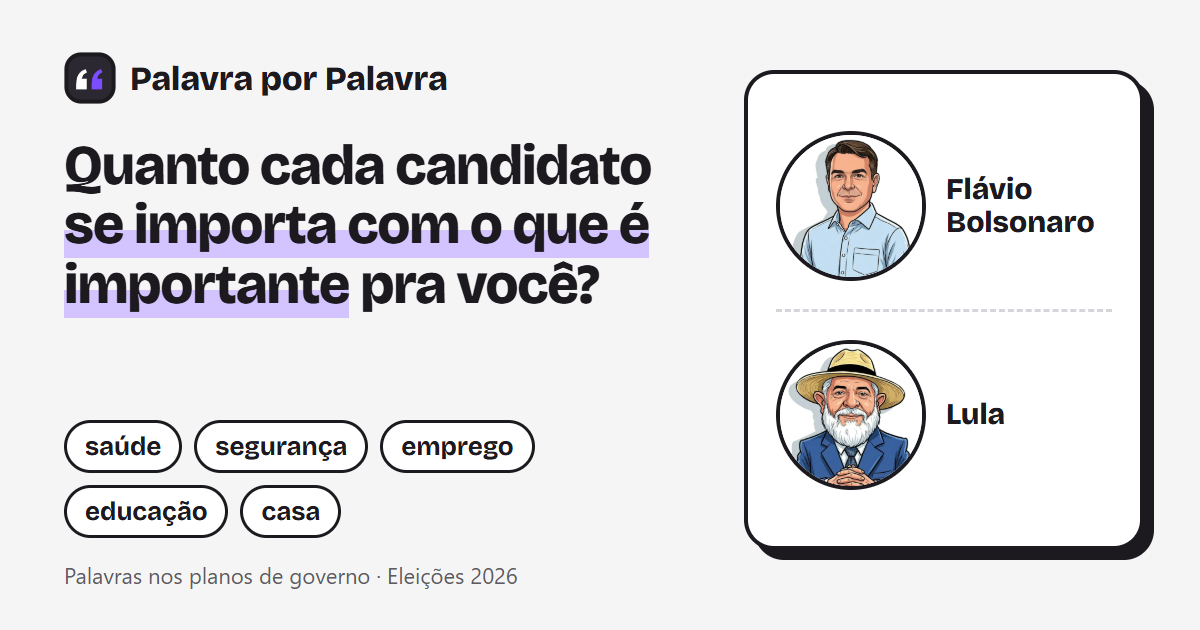
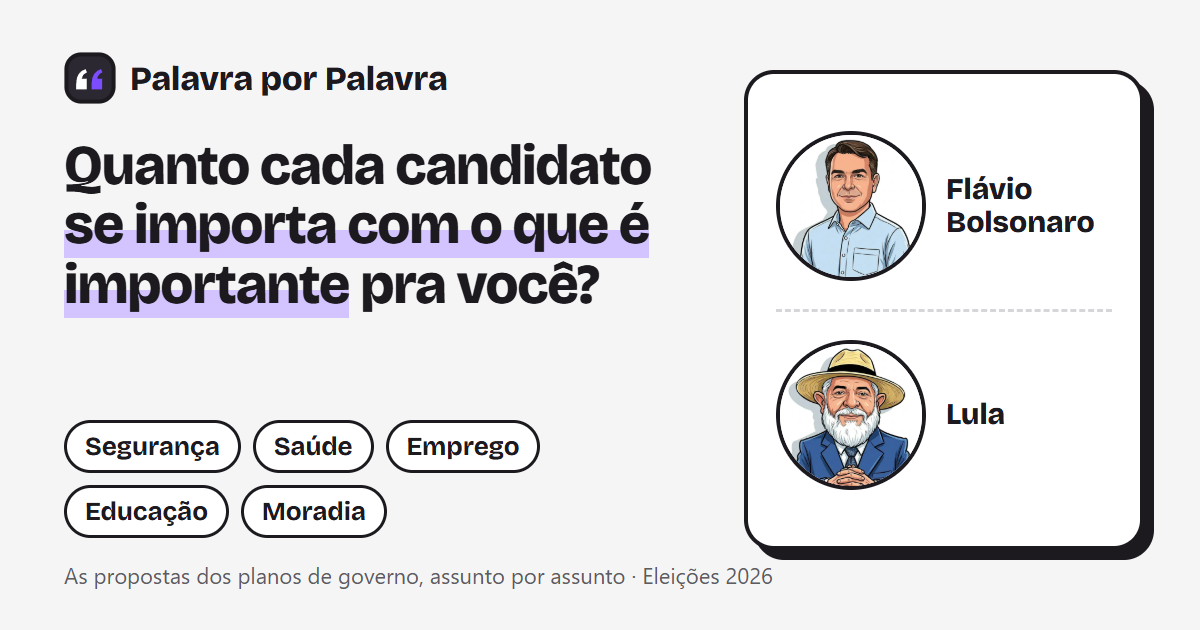
Card de compartilhar das propostas do assunto e prévia do link atualizada
- Página do assunto ganha botão Compartilhar: story com quantas propostas cada plano faz e
  quanto diz como vai fazer, com o mesmo peso, nota de IA e lembrete, dentro da faixa segura.
- Card de palavra continua igual (cabeçalho e lembrete agora compartilhados).
- Prévia do link fala das propostas por assunto.

Changed region(s): [[0.0617, 0.6635, 0.4625, 0.8746], [0.0308, 0.9048, 0.6475, 0.9349]]

diff --git a/js/compartilhar.js b/js/compartilhar.js
@@ -1,9 +1,10 @@
-import { SITE } from './config.js?v=5.3';
-import { vezes, frequencia, maiorTaxa, LEMBRETE, PERGUNTA } from './formato.js?v=5.3';
+import { SITE } from './config.js?v=5.4';
+import { vezes, frequencia, maiorTaxa, LEMBRETE, PERGUNTA } from './formato.js?v=5.4';
 
-// Imagem de story (9:16) com a cara da tela de resultado: um cartão com uma coluna por candidato
-// (retrato, nome, número, barra e frequência no plano), na mesma ordem da tela.
-// Leva sempre os dois, o número, a frequência e o lembrete: a imagem não pode virar "placar".
+// Imagem de story (9:16) com a cara da tela de resultado: um cartão com uma coluna por candidato,
+// na mesma ordem da tela. Dois tipos: a contagem de uma palavra (número, barra e frequência) e as
+// propostas de um assunto (quantas e quantas dizem como vão fazer, com o mesmo peso).
+// Leva sempre os dois e o lembrete: a imagem não pode virar disputa.
 const L = 1080;
 const A = 1920;
 // Faixa segura: o WhatsApp mostra na conversa só o meio da imagem (altura ≈ 1,4 × largura) e o story
@@ -149,8 +150,65 @@ function nomeAoLado(ctx, nome, x, yMeio, largura) {
   textoAjustado(ctx, resto.join(' '), x, yMeio + 44, 800, 46, largura);
 }
 
-// palavra: o termo (ou o assunto, sem aspas). lados: [{ nome, imagem, plano }] na ordem da tela.
-export async function gerarImagem({ palavra, aspas = true, lados }) {
+// Uma medida da coluna de propostas: rótulo, número grande, barra e detalhe.
+function medida(ctx, x, y, w, rotulo, valor, fracao, detalhe) {
+  ctx.textAlign = 'left';
+  ctx.fillStyle = COR.suave;
+  ctx.font = texto(700, 30);
+  ctx.fillText(rotulo, x, y);
+  ctx.fillStyle = COR.tinta;
+  ctx.font = fonte(800, 80);
+  ctx.fillText(valor, x, y + 86);
+  barra(ctx, x, y + 110, w, 50, fracao, false);
+  if (detalhe) {
+    ctx.fillStyle = COR.suave;
+    ctx.font = texto(400, 31);
+    ctx.fillText(detalhe, x, y + 202);
+  }
+}
+
+// Selo, pergunta e título com marca-texto. Devolve o topo do cartão.
+function cabecalho(ctx, y0, pergunta, titulo) {
+  ctx.textAlign = 'center';
+  ctx.font = fonte(800, 32);
+  const selo = 'PALAVRA POR PALAVRA · ELEIÇÕES 2026';
+  const larguraSelo = ctx.measureText(selo).width + 68;
+  bloco(ctx, (L - larguraSelo) / 2, y0, larguraSelo, 70, 35, COR.roxo);
+  ctx.fillStyle = '#ffffff';
+  ctx.fillText(selo, L / 2, y0 + 47);
+
+  ctx.fillStyle = COR.tinta;
+  textoAjustado(ctx, pergunta, L / 2, y0 + 160, 700, 48, L - 100);
+  let t = 112;
+  ctx.font = fonte(800, t);
+  while (ctx.measureText(titulo).width > L - 120 && t > 40) { t -= 4; ctx.font = fonte(800, t); }
+  const largura = ctx.measureText(titulo).width;
+  const yTitulo = y0 + 282;
+  ctx.fillStyle = COR.marcaTexto;
+  ctx.fillRect((L - largura) / 2 - 12, yTitulo - t * 0.42, largura + 24, t * 0.42);
+  ctx.fillStyle = COR.tinta;
+  ctx.fillText(titulo, L / 2, yTitulo);
+  return y0 + 340;
+}
+
+// Lembrete (o mesmo da tela) e chamada com o endereço, a partir de y.
+function rodape(ctx, y, chamada) {
+  ctx.font = texto(400, 30);
+  const linhas = quebrar(ctx, LEMBRETE[0].toUpperCase() + LEMBRETE.slice(1), L - 176);
+  const altura = 44 + linhas.length * 44;
+  bloco(ctx, 40, y, L - 80, altura, 26, COR.roxoClaro);
+  ctx.fillStyle = COR.roxo;
+  ctx.fillRect(40 + TRACO / 2, y + TRACO / 2, 12, altura - TRACO);
+  ctx.fillStyle = COR.tinta;
+  ctx.textAlign = 'left';
+  ctx.font = texto(400, 30);
+  linhas.forEach((linha, i) => ctx.fillText(linha, 88, y + 54 + i * 44));
+  return y + altura;
+}
+
+// tipo 'palavra': palavra é o termo (ou o assunto, sem aspas); lados: [{ nome, imagem, plano }].
+// tipo 'propostas': palavra é o assunto; lados: [{ nome, imagem, n, como }]. Sempre na ordem da tela.
+export async function gerarImagem({ tipo = 'palavra', palavra, aspas = true, lados }) {
   const [imagens] = await Promise.all([
     Promise.all(lados.map((l) => carregar(l.imagem))),
     document.fonts?.load(fonte(800, 100)).catch(() => {}),
@@ -163,32 +221,11 @@ export async function gerarImagem({ palavra, aspas = true, lados }) {
   ctx.fillRect(0, 0, L, A);
   ctx.textBaseline = 'alphabetic';
   const y0 = SEGURO.topo + 78;
+  if (tipo === 'propostas') return propostas(ctx, canvas, y0, palavra, lados, imagens);
 
-  // Selo
-  ctx.textAlign = 'center';
-  ctx.font = fonte(800, 32);
-  const selo = 'PALAVRA POR PALAVRA · ELEIÇÕES 2026';
-  const larguraSelo = ctx.measureText(selo).width + 68;
-  bloco(ctx, (L - larguraSelo) / 2, y0, larguraSelo, 70, 35, COR.roxo);
-  ctx.fillStyle = '#ffffff';
-  ctx.fillText(selo, L / 2, y0 + 47);
-
-  // Pergunta e palavra, com marca-texto
-  ctx.fillStyle = COR.tinta;
-  textoAjustado(ctx, aspas ? PERGUNTA.palavra : PERGUNTA.assunto, L / 2, y0 + 160, 700, 48, L - 100);
-  const titulo = aspas ? `“${palavra}”` : palavra;
-  let t = 112;
-  ctx.font = fonte(800, t);
-  while (ctx.measureText(titulo).width > L - 120 && t > 40) { t -= 4; ctx.font = fonte(800, t); }
-  const largura = ctx.measureText(titulo).width;
-  const yPalavra = y0 + 282;
-  ctx.fillStyle = COR.marcaTexto;
-  ctx.fillRect((L - largura) / 2 - 12, yPalavra - t * 0.42, largura + 24, t * 0.42);
-  ctx.fillStyle = COR.tinta;
-  ctx.fillText(titulo, L / 2, yPalavra);
+  const topo = cabecalho(ctx, y0, aspas ? PERGUNTA.palavra : PERGUNTA.assunto, aspas ? `“${palavra}”` : palavra);
 
   // Cartão com as duas colunas
-  const topo = y0 + 340;
   bloco(ctx, 40, topo, L - 80, 712, 44, COR.papel, 12);
   const maior = maiorTaxa(lados.map((l) => l.plano));
   const largCol = 420;
@@ -201,27 +238,43 @@ export async function gerarImagem({ palavra, aspas = true, lados }) {
     conta(ctx, x, topo + 425, largCol, 'NO PLANO DE GOVERNO', lado.plano, maior, false);
   });
 
-  // Lembrete, o mesmo da tela
-  ctx.font = texto(400, 30);
-  const linhas = quebrar(ctx, LEMBRETE[0].toUpperCase() + LEMBRETE.slice(1), L - 176);
-  const topoLembrete = topo + 742;
-  const alturaLembrete = 44 + linhas.length * 44;
-  bloco(ctx, 40, topoLembrete, L - 80, alturaLembrete, 26, COR.roxoClaro);
-  ctx.fillStyle = COR.roxo;
-  ctx.fillRect(40 + TRACO / 2, topoLembrete + TRACO / 2, 12, alturaLembrete - TRACO);
-  ctx.fillStyle = COR.tinta;
-  ctx.textAlign = 'left';
-  ctx.font = texto(400, 30);
-  linhas.forEach((linha, i) => ctx.fillText(linha, 88, topoLembrete + 54 + i * 44));
-
-  // Chamada com o endereço
+  // Lembrete e chamada com o endereço
+  const fim = rodape(ctx, topo + 742);
   ctx.textAlign = 'center';
   ctx.fillStyle = COR.tinta;
-  const chamadaY = topoLembrete + alturaLembrete + 80;
   ctx.font = fonte(800, 46);
-  ctx.fillText(aspas ? 'Busque a sua palavra em' : 'Veja o seu assunto em', L / 2, chamadaY);
-  textoAjustado(ctx, SITE, L / 2, chamadaY + 58, 700, 42, L - 120);
+  ctx.fillText(aspas ? 'Busque a sua palavra em' : 'Veja o seu assunto em', L / 2, fim + 80);
+  textoAjustado(ctx, SITE, L / 2, fim + 138, 700, 42, L - 120);
 
+  return new Promise((ok) => canvas.toBlob(ok, 'image/png'));
+}
+
+// Propostas de um assunto: quantas e quantas dizem como vão fazer, com o mesmo desenho e tamanho.
+function propostas(ctx, canvas, y0, assunto, lados, imagens) {
+  const topo = cabecalho(ctx, y0, 'O que cada plano propõe sobre', assunto);
+  bloco(ctx, 40, topo, L - 80, 830, 44, COR.papel, 12);
+  const maior = Math.max(...lados.map((l) => l.n)) || 1;
+  const largCol = 420;
+  lados.forEach((lado, i) => {
+    const x = i === 0 ? 88 : 572;
+    retrato(ctx, imagens[i], x + 80, topo + 112, 80);
+    ctx.textAlign = 'left';
+    ctx.fillStyle = COR.tinta;
+    textoAjustado(ctx, lado.nome, x, topo + 258, 800, 46, largCol);
+    medida(ctx, x, topo + 325, largCol, 'PROPOSTAS', String(lado.n), lado.n / maior);
+    const pct = lado.n ? Math.round((100 * lado.como) / lado.n) : 0;
+    medida(ctx, x, topo + 522, largCol, 'DIZ COMO VAI FAZER', `${pct}%`, lado.n ? lado.como / lado.n : 0, `${lado.como} de ${lado.n}`);
+  });
+  ctx.textAlign = 'center';
+  ctx.fillStyle = COR.suave;
+  ctx.font = texto(400, 28);
+  ctx.fillText('✦ Propostas separadas e classificadas por IA a partir dos planos', L / 2, topo + 792);
+
+  // Lembrete e chamada numa linha só, para caber na faixa segura.
+  const fim = rodape(ctx, topo + 860);
+  ctx.fillStyle = COR.tinta;
+  ctx.textAlign = 'center';
+  textoAjustado(ctx, `Veja em ${SITE}`, L / 2, fim + 76, 800, 46, L - 120);
   return new Promise((ok) => canvas.toBlob(ok, 'image/png'));
 }
 
@@ -230,7 +283,9 @@ export async function compartilhar(dados) {
   const blob = await gerarImagem(dados);
   const arquivo = new File([blob], 'palavra-por-palavra.png', { type: 'image/png' });
   const url = `https://${SITE}/${dados.link}&o=c`;
-  const mensagem = dados.aspas
+  const mensagem = dados.tipo === 'propostas'
+    ? `O que cada plano de governo propõe sobre ${dados.palavra.toLowerCase()}? Quantas propostas e quantas dizem como vão ser feitas: ${url}`
+    : dados.aspas
     ? `Quantas vezes cada candidato usou “${dados.palavra}” no plano de governo? Busque a sua palavra: ${url}`
     : `Quanto cada candidato falou sobre ${dados.palavra.toLowerCase()} no plano de governo? Veja: ${url}`;
 

diff --git a/js/app.js b/js/app.js
@@ -1,7 +1,7 @@
-import { preparar, familia, familiaDoGrupo, formasDoTermo, contar, trecho, semAcento } from './busca.js?v=5.3';
-import * as medir from './contagem.js?v=5.3';
-import { compartilhar } from './compartilhar.js?v=5.3';
-import { numero, vezes, frequencia, maiorTaxa, LEMBRETE, PERGUNTA } from './formato.js?v=5.3';
+import { preparar, familia, familiaDoGrupo, formasDoTermo, contar, trecho, semAcento } from './busca.js?v=5.4';
+import * as medir from './contagem.js?v=5.4';
+import { compartilhar } from './compartilhar.js?v=5.4';
+import { numero, vezes, frequencia, maiorTaxa, LEMBRETE, PERGUNTA } from './formato.js?v=5.4';
 
 const ORDEM = 'palavra:ordem';
 const POR_VEZ = 5; // trechos mostrados de cada vez
@@ -247,6 +247,7 @@ function propostasDoAssunto(grupo) {
       medida('Propostas', numero(x.n), x.n / maior),
       medida('Diz como vai fazer', `${pct(x.como, x.n)}%`, x.n ? x.como / x.n : 0, `${x.como} de ${x.n}`),
       el('small', { class: 'outras-marcas' }, `Com meta em número: ${x.meta}. Com prazo: ${x.prazo}. Com valor em R$: ${x.valor}.`)))),
+    el('button', { class: 'botao principal compartilhar', type: 'button', onclick: (e) => enviarPropostas(e.currentTarget, grupo, porCandidato) }, 'Compartilhar'),
     el('p', { class: 'legenda' }, el('strong', {}, 'Diz como vai fazer'), ' quando a proposta nomeia a lei, o programa, de onde sai o dinheiro ou com quem vai ser feita (estados, municípios, um órgão).',
       porCandidato.some((x) => x.n < 8) ? ' Com poucas propostas, uma a mais ou a menos muda bastante o percentual.' : ''),
     porCandidato.map((x) => listaDePropostas(x, grupo)));
@@ -379,11 +380,11 @@ function blocoResumo(grupo) {
   const painel = el('div', { class: 'painel', id: 'resumo-ia', hidden: true });
   let aberto = null;
   const colunas = ordem.map((c) => {
-    const foto = el('img', { src: `img/${c}-serio.webp?v=5.3`, alt: '', width: '96', height: '96' });
+    const foto = el('img', { src: `img/${c}-serio.webp?v=5.4`, alt: '', width: '96', height: '96' });
     const rotulo = el('span', { class: 'ver-resumo' }, 'Ver resumo');
     // Retrato e rótulo formam um único botão.
     const cabeca = el('button', { class: 'rosto', type: 'button', 'aria-pressed': 'false', 'aria-controls': painel.id, 'aria-label': `Ver resumo do plano de ${nome(c)}`, onclick: () => abrirResumo(c) }, foto, rotulo);
-    new Image().src = `img/${c}-alegre.webp?v=5.3`; // sem piscar na troca
+    new Image().src = `img/${c}-alegre.webp?v=5.4`; // sem piscar na troca
     return { c, cabeca, foto, rotulo };
   });
   function abrirResumo(c) {
@@ -391,7 +392,7 @@ function blocoResumo(grupo) {
     for (const col of colunas) {
       const ativo = col.c === aberto;
       col.cabeca.setAttribute('aria-pressed', String(ativo));
-      col.foto.src = `img/${col.c}-${ativo ? 'alegre' : 'serio'}.webp?v=5.3`;
+      col.foto.src = `img/${col.c}-${ativo ? 'alegre' : 'serio'}.webp?v=5.4`;
       col.rotulo.textContent = ativo ? 'Fechar' : 'Ver resumo';
     }
     painel.hidden = !aberto;
@@ -525,6 +526,21 @@ function itemDeTrecho(c, { pedaco, i, n }) {
   return el('li', {}, el('p', {}, t.antes, el('mark', {}, t.achado), t.depois), fonte);
 }
 
+async function enviarPropostas(botao, grupo, porCandidato) {
+  botao.disabled = true;
+  try {
+    const tipo = await compartilhar({
+      tipo: 'propostas',
+      palavra: grupo.nome,
+      link: `?a=${grupo.id}`,
+      lados: porCandidato.map((x) => ({ nome: nome(x.c), imagem: `img/${x.c}-neutro.webp?v=5.4`, n: x.n, como: x.como })),
+    });
+    if (tipo) medir.compartilhou(tipo);
+  } finally {
+    botao.disabled = false;
+  }
+}
+
 async function enviarImagem(botao, vista) {
   botao.disabled = true;
   try {
@@ -534,7 +550,7 @@ async function enviarImagem(botao, vista) {
       link: vista.link,
       lados: ordem.map((c) => ({
         nome: nome(c),
-        imagem: `img/${c}-neutro.webp?v=5.3`,
+        imagem: `img/${c}-neutro.webp?v=5.4`,
         plano: vista.res.plano[c],
       })),
     });
@@ -566,7 +582,7 @@ function rota({ historico = false } = {}) {
 async function iniciar() {
   try {
     const [textos, termos, resumos, propostas] = await Promise.all(
-      ['data/textos.json?v=5.3', 'data/termos.json?v=5.3', 'data/resumos.json?v=5.3', 'data/propostas.json?v=5.3'].map((u) => fetch(u).then((r) => { if (!r.ok) throw new Error(u); return r.json(); })),
+      ['data/textos.json?v=5.4', 'data/termos.json?v=5.4', 'data/resumos.json?v=5.4', 'data/propostas.json?v=5.4'].map((u) => fetch(u).then((r) => { if (!r.ok) throw new Error(u); return r.json(); })),
     );
     dados = { textos, termos: termos.termos, grupos: termos.grupos, resumos, propostas: propostas.propostas, acervos: preparar(textos) };
     dados.indice = montarIndice();

diff --git a/sobre.html b/sobre.html
@@ -8,7 +8,7 @@
   <meta property="og:type" content="website">
   <meta property="og:title" content="Como funciona · Palavra por Palavra">
   <meta property="og:description" content="Como contamos propostas e palavras nos planos de governo, de onde vêm os textos e o que o site guarda.">
-  <meta property="og:image" content="https://palavraporpalavra.online/img/og.png?v=5.3">
+  <meta property="og:image" content="https://palavraporpalavra.online/img/og.png?v=5.4">
   <meta property="og:image:width" content="1200">
   <meta property="og:image:height" content="630">
   <meta property="og:url" content="https://palavraporpalavra.online/sobre.html">
@@ -23,14 +23,14 @@
       document.documentElement.dataset.theme = tema;
     })();
   </script>
-  <link rel="icon" href="img/icone.svg?v=5.3" type="image/svg+xml">
+  <link rel="icon" href="img/icone.svg?v=5.4" type="image/svg+xml">
   <link rel="preload" href="fonts/bricolage-grotesque.woff2" as="font" type="font/woff2" crossorigin>
-  <link rel="stylesheet" href="css/style.css?v=5.3">
+  <link rel="stylesheet" href="css/style.css?v=5.4">
 </head>
 <body>
   <header class="topo">
     <a class="marca" href="./">
-      <img src="img/icone.svg?v=5.3" width="30" height="30" alt="">
+      <img src="img/icone.svg?v=5.4" width="30" height="30" alt="">
       Palavra por Palavra
     </a>
     <button class="tema" type="button" aria-label="Mudar para o tema escuro">
@@ -113,6 +113,6 @@
     <p>Projeto independente de Thiago Areias, o mesmo do <a href="https://testecego.online/?o=pp">Teste Cego</a>, sem vínculo com candidatos, partidos ou campanhas, sem financiamento e sem impulsionamento pago. O código e os dados são abertos no <a href="https://github.com/areiasthiago/palavra-por-palavra">GitHub</a>; correções são bem-vindas por lá.</p>
   </main>
   <footer class="rodape"><a href="./">Voltar para a busca</a></footer>
-  <script type="module" src="js/tema.js?v=5.3"></script>
+  <script type="module" src="js/tema.js?v=5.4"></script>
 </body>
 </html>

diff --git a/index.html b/index.html
@@ -8,7 +8,7 @@
   <meta property="og:type" content="website">
   <meta property="og:title" content="Palavra por Palavra: quanto cada candidato se importa com o que é importante pra você?">
   <meta property="og:description" content="Assunto por assunto, quantas propostas cada plano de governo faz e quantas dizem como vão ser feitas.">
-  <meta property="og:image" content="https://palavraporpalavra.online/img/og.png?v=5.3">
+  <meta property="og:image" content="https://palavraporpalavra.online/img/og.png?v=5.4">
   <meta property="og:image:width" content="1200">
   <meta property="og:image:height" content="630">
   <meta property="og:url" content="https://palavraporpalavra.online/">
@@ -23,14 +23,14 @@
       document.documentElement.dataset.theme = tema;
     })();
   </script>
-  <link rel="icon" href="img/icone.svg?v=5.3" type="image/svg+xml">
+  <link rel="icon" href="img/icone.svg?v=5.4" type="image/svg+xml">
   <link rel="preload" href="fonts/bricolage-grotesque.woff2" as="font" type="font/woff2" crossorigin>
-  <link rel="stylesheet" href="css/style.css?v=5.3">
+  <link rel="stylesheet" href="css/style.css?v=5.4">
 </head>
 <body>
   <header class="topo">
     <a class="marca" href="./">
-      <img src="img/icone.svg?v=5.3" width="30" height="30" alt="">
+      <img src="img/icone.svg?v=5.4" width="30" height="30" alt="">
       Palavra por Palavra
     </a>
     <button class="tema" type="button" aria-label="Mudar para o tema escuro">
@@ -47,7 +47,7 @@
     <a href="https://testecego.online/?o=pp" data-teste-cego>Ainda indeciso? Faça o Teste Cego</a>
     <span>Projeto independente, sem vínculo com candidatos ou partidos.</span>
   </footer>
-  <script type="module" src="js/tema.js?v=5.3"></script>
-  <script type="module" src="js/app.js?v=5.3"></script>
+  <script type="module" src="js/tema.js?v=5.4"></script>
+  <script type="module" src="js/app.js?v=5.4"></script>
 </body>
 </html>

diff --git a/scripts/og.html b/scripts/og.html
@@ -19,8 +19,8 @@ h1{position:absolute;left:64px;top:136px;width:640px;font:800 56px/1.06 "Bricola
 </style></head><body>
 <div class="marca"><img src="../img/icone.svg">Palavra por Palavra</div>
 <h1>Quanto cada candidato <span class="mt">se importa com o que é importante</span> pra você?</h1>
-<div class="chips"><span>saúde</span><span>segurança</span><span>emprego</span><span>educação</span><span>casa</span></div>
-<p class="rodape">Palavras nos planos de governo · Eleições 2026</p>
+<div class="chips"><span>Segurança</span><span>Saúde</span><span>Emprego</span><span>Educação</span><span>Moradia</span></div>
+<p class="rodape">As propostas dos planos de governo, assunto por assunto · Eleições 2026</p>
 <div class="cartao">
   <div class="lado"><img src="../img/flavio-neutro.webp"><b>Flávio<br>Bolsonaro</b></div>
   <div class="sep"></div>

diff --git a/js/contagem.js b/js/contagem.js
@@ -1,4 +1,4 @@
-import { CONTAGEM, ENVIAR_CONTAGEM } from './config.js?v=5.3';
+import { CONTAGEM, ENVIAR_CONTAGEM } from './config.js?v=5.4';
 
 // Medição anônima: só totais por dia. Nada de nome, identificador, IP guardado ou cookie.
 // Cada aparelho conta no máximo uma vez por evento (e por palavra, por dia), controlado aqui no aparelho.
